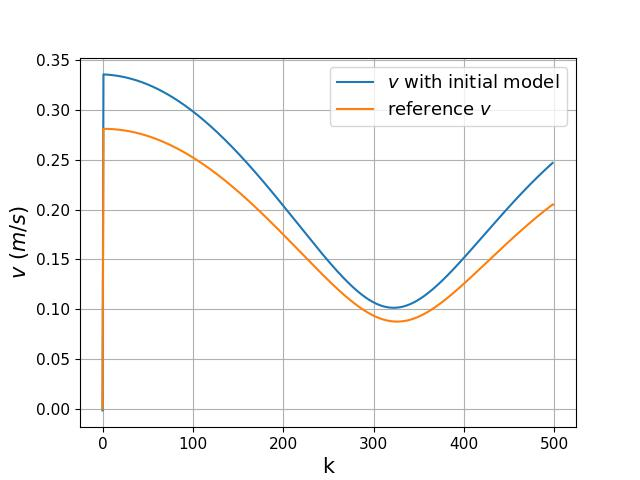
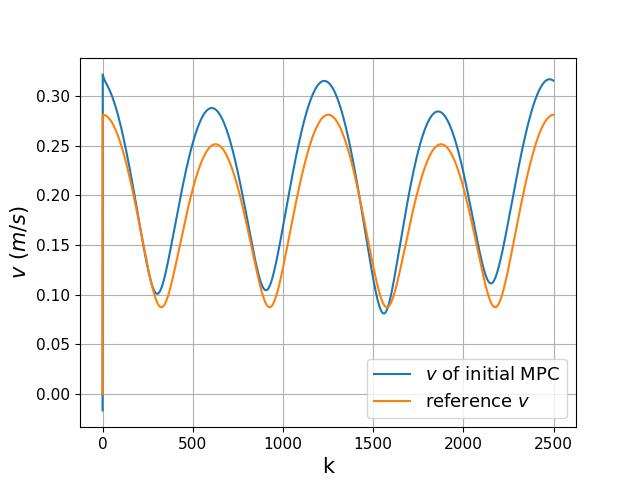
time-varying-update

diff --git a/adaptive_tracking_control/time_varying_lqr.py b/adaptive_tracking_control/time_varying_lqr.py
@@ -96,7 +96,7 @@ def time_varying_simulation(r, l):
                    'param': {'start_state': np.array([0, 0, 0]),
                              'dt': 0.02,
                              'scale': 2,
-                             'nTraj': 500}}
+                             'nTraj': 2500}}
 
     lti = LTI()
     lqr = time_varying_LQR(traj_config, lti, r, l)
@@ -118,16 +118,17 @@ def time_varying_simulation(r, l):
             SE2(curr_state[0], curr_state[1], curr_state[2])).log().coeffs()
         x_container[:, i] = x
     return state_container, vel_container, lqr.ref_state, x_container, lqr.ref_control
-
 def time_varying_simulation_FBC(r, l):
     traj_config = {'type': TrajType.EIGHT,
                    'param': {'start_state': np.array([0, 0, 0]),
                              'dt': 0.02,
                              'scale': 2,
-                             'nTraj': 200}}
+                             'nTraj': 2500}}
 
     lti = LTI()
     lqr = time_varying_LQR(traj_config, lti, r, l)
+    fbc = FBLinearizationController()
+
     state_container = np.zeros((3, lqr.nTraj - 1))
     x_container = np.zeros((3, lqr.nTraj - 1))
     ref_state_container = lqr.ref_state
@@ -137,7 +138,9 @@ def time_varying_simulation_FBC(r, l):
     for i in range(lqr.nTraj - 1):
         curr_state = robot.get_state()
         state_container[:, i] = curr_state
-        u = lqr.mpc_step(curr_state, i)
+        # u = lqr.mpc_step(curr_state, i)
+        u = fbc.feedback_control(curr_state, lqr.ref_state[:, i], lqr.ref_control[:, i])
+        u = fbc.vel_cmd_to_wheel_vel(u, r, l)
         vel = robot.control_to_twist(u)
         vel = np.array([vel[0], vel[2]])
         vel_container[:, i] = vel
@@ -148,8 +151,10 @@ def time_varying_simulation_FBC(r, l):
     return state_container, vel_container, lqr.ref_state, x_container, lqr.ref_control
 
 if __name__ == '__main__':
+
     init_state_container, init_vel_container, ref_state_container, init_x_container, ref_vel = time_varying_simulation(0.03, 0.3)
     trained_state_container, trained_vel_container, trained_ref_state_container, x_container, ref_vel = time_varying_simulation(0.036, 0.23)
+    fbc_state_container, fbc_vel_container, _, _, _ = time_varying_simulation_FBC(0.03, 0.3)
     # get curr dir
     curr_dir = os.getcwd()
     save_dir = os.path.join(curr_dir, 'data', 'time_varying_tracking')
@@ -165,7 +170,7 @@ if __name__ == '__main__':
     plt.plot(init_state_container[0, :], init_state_container[1, :])
     # plt.plot(trained_state_container[0, :], trained_state_container[1, :])
     plt.plot(ref_state_container[0, :], ref_state_container[1, :])
-    plt.legend(['trajectory with initial model', 'reference trajectory'], fontsize=font_size - 2)
+    plt.legend(['trajectory with initial MPC', 'reference trajectory'], fontsize=font_size - 2)
     plt.xlabel("$x~(m)$", fontsize=font_size)
     plt.ylabel("$y~(m)$", fontsize=font_size)
     name = "init_time_vary_trajectory.jpg"
@@ -180,13 +185,29 @@ if __name__ == '__main__':
     plt.yticks(fontsize=font_size - 4)
     plt.plot(trained_state_container[0, :], trained_state_container[1, :])
     plt.plot(ref_state_container[0, :], ref_state_container[1, :])
-    plt.legend(['trajectory with learned model', 'reference trajectory'], fontsize=font_size - 2)
+    plt.legend(['trajectory with learned MPC', 'reference trajectory'], fontsize=font_size - 2)
     plt.xlabel("$x~(m)$", fontsize=font_size)
     plt.ylabel("$y~(m)$", fontsize=font_size)
     name = "learned_time_vary_trajectory.jpg"
     save_path = os.path.join(save_dir, name)
     plt.savefig(save_path)
     plt.show()
+
+    # fbc model
+    plt.figure()
+    plt.grid(True)
+    plt.xticks(fontsize=font_size - 4)
+    plt.yticks(fontsize=font_size - 4)
+    plt.plot(fbc_state_container[0, :], fbc_state_container[1, :])
+    plt.plot(ref_state_container[0, :], ref_state_container[1, :])
+    plt.legend(['trajectory with FBC', 'reference trajectory'], fontsize=font_size - 2)
+    plt.xlabel("$x~(m)$", fontsize=font_size)
+    plt.ylabel("$y~(m)$", fontsize=font_size)
+    name = "fbc_time_vary_trajectory.jpg"
+    save_path = os.path.join(save_dir, name)
+    plt.savefig(save_path)
+    plt.show()
+
 
     # plot vel[0]
     # initial model
@@ -197,7 +218,7 @@ if __name__ == '__main__':
     plt.plot(init_vel_container[0, :])
     # plt.plot(trained_vel_container[0, :])
     plt.plot(ref_vel[0, :])
-    plt.legend(['$v$ with initial model', 'reference $v$'], fontsize=font_size - 2)
+    plt.legend(['$v$ of initial MPC', 'reference $v$'], fontsize=font_size - 2)
     plt.xlabel("k", fontsize=font_size)
     plt.ylabel("$v~(m/s)$", fontsize=font_size)
     name = "init_time_vary_v.jpg"
@@ -213,13 +234,30 @@ if __name__ == '__main__':
     # plt.plot(init_vel_container[0, :])
     plt.plot(trained_vel_container[0, :])
     plt.plot(ref_vel[0, :])
-    plt.legend(['$v$ with learned model', 'reference $v$'], fontsize=font_size - 2)
+    plt.legend(['$v$ of learned MPC', 'reference $v$'], fontsize=font_size - 2)
     plt.xlabel("k", fontsize=font_size)
     plt.ylabel("$v~(m/s)$", fontsize=font_size)
     name = "learned_time_vary_v.jpg"
     save_path = os.path.join(save_dir, name)
     plt.savefig(save_path)
     plt.show()
+
+    # fbc model
+    plt.figure()
+    plt.grid(True)
+    plt.xticks(fontsize=font_size - 4)
+    plt.yticks(fontsize=font_size - 4)
+    # plt.plot(init_vel_container[0, :])
+    plt.plot(fbc_vel_container[0, :])
+    plt.plot(ref_vel[0, :])
+    plt.legend(['$v$ of FBC', 'reference $v$'], fontsize=font_size - 2)
+    plt.xlabel("k", fontsize=font_size)
+    plt.ylabel("$v~(m/s)$", fontsize=font_size)
+    name = "fbc_time_vary_v.jpg"
+    save_path = os.path.join(save_dir, name)
+    plt.savefig(save_path)
+    plt.show()
+
 
 
     # plot vel[1]
@@ -231,7 +269,7 @@ if __name__ == '__main__':
     plt.plot(init_vel_container[1, :])
     # plt.plot(trained_vel_container[1, :])
     plt.plot(ref_vel[1, :])
-    plt.legend(['$w$ with initial model', 'reference $w$'], fontsize=font_size - 2)
+    plt.legend(['$w$ of initial MPC', 'reference $w$'], fontsize=font_size - 2)
     plt.xlabel("k", fontsize=font_size)
     plt.ylabel("$w~(rad/s)$", fontsize=font_size)
     name = "init_time_vary_w.jpg"
@@ -239,7 +277,7 @@ if __name__ == '__main__':
     plt.savefig(save_path)
     plt.show()
 
-    # initial model
+    # learned model
     plt.figure()
     plt.grid(True)
     plt.xticks(fontsize=font_size - 4)
@@ -247,10 +285,26 @@ if __name__ == '__main__':
     # plt.plot(init_vel_container[1, :])
     plt.plot(trained_vel_container[1, :])
     plt.plot(ref_vel[1, :])
-    plt.legend(['$w$ with learned model', 'reference $w$'], fontsize=font_size - 2)
+    plt.legend(['$w$ of learned MPC', 'reference $w$'], fontsize=font_size - 2)
     plt.xlabel("k", fontsize=font_size)
     plt.ylabel("$w~(rad/s)$", fontsize=font_size)
     name = "learned_time_vary_w.jpg"
+    save_path = os.path.join(save_dir, name)
+    plt.savefig(save_path)
+    plt.show()
+
+    # fbc model
+    plt.figure()
+    plt.grid(True)
+    plt.xticks(fontsize=font_size - 4)
+    plt.yticks(fontsize=font_size - 4)
+    # plt.plot(init_vel_container[1, :])
+    plt.plot(fbc_vel_container[1, :])
+    plt.plot(ref_vel[1, :])
+    plt.legend(['$w$ of FBC', 'reference $w$'], fontsize=font_size - 2)
+    plt.xlabel("k", fontsize=font_size)
+    plt.ylabel("$w~(rad/s)$", fontsize=font_size)
+    name = "fbc_time_vary_w.jpg"
     save_path = os.path.join(save_dir, name)
     plt.savefig(save_path)
     plt.show()

diff --git a/controller/feedback_linearization.py b/controller/feedback_linearization.py
@@ -34,6 +34,7 @@ class FBLinearizationController:
                               [-np.sin(curr_state[2]), np.cos(curr_state[2]), 0],
                               [0, 0, 1]])
         error = frame_rot @ state_diff
+        # error[2] = SO2(error[2]).angle()
         u = self.K @ error
         v = v_d * np.cos(error[2]) - u[0]
         w = w_d - u[1]
@@ -62,6 +63,11 @@ class FBLinearizationController:
             w = self.w_max
         return np.array([v, w])
 
+    def vel_cmd_to_wheel_vel(self, vel_cmd, r, l):
+        v, w = vel_cmd
+        w_l = (2 * v - l * w) / (2 * r)
+        w_r = (2 * v + l * w) / (2 * r)
+        return np.array([w_l, w_r])
 
 def test_fb_linearization_controller():
     # set up init state and reference trajectory

diff --git a/adaptive_tracking_control/data_driven_FBC.py b/adaptive_tracking_control/data_driven_FBC.py
@@ -66,7 +66,7 @@ class LTI:
         self.init_c = self.c
 
         self.Q = 200 * np.eye(3)
-        self.R = 10 * np.eye(2)
+        self.R = 1 * np.eye(2)
 
 
     def controller_init(self):
